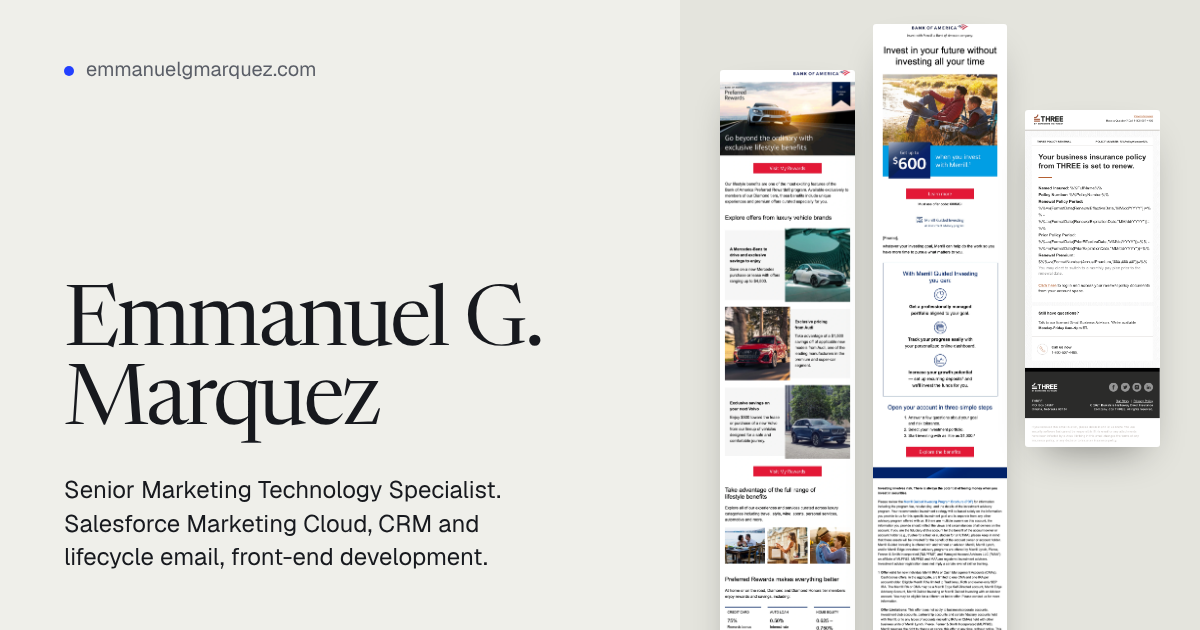
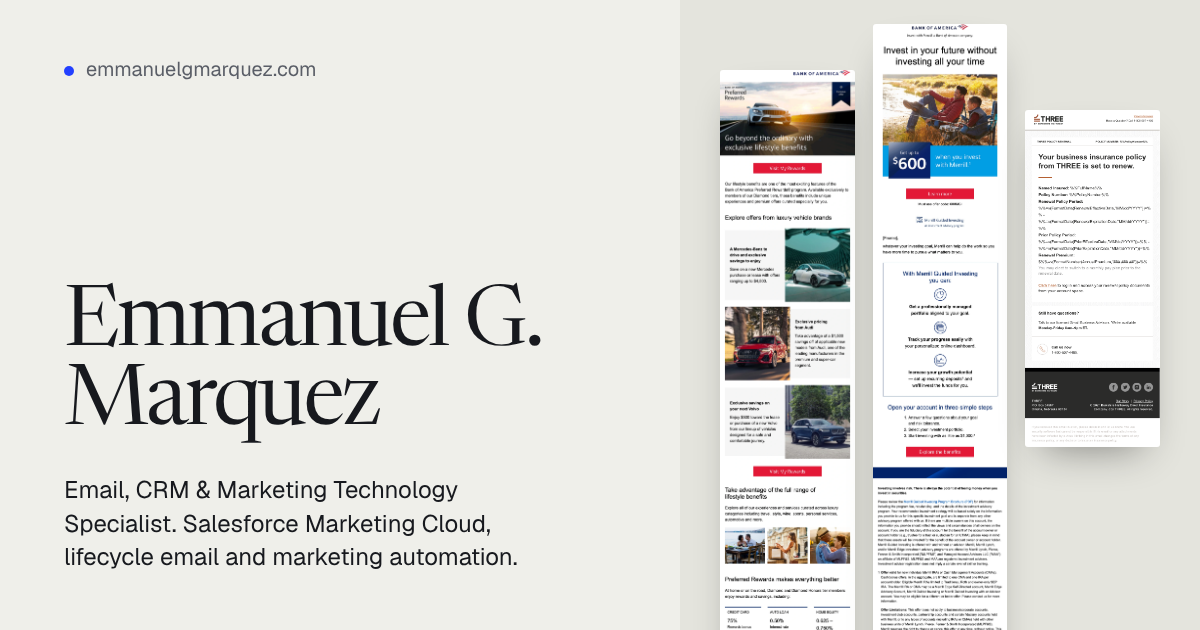
Retitle the site: Email, CRM & Marketing Technology Specialist
Updates the browser title, search and social titles, structured-data job
title and the homepage sharing image.

Claude-Session: https://claude.ai/code/session_01CoJ6EQ7GkvrbKK26VKxf5i

Changed region(s): [[0.0617, 0.754, 0.4317, 0.8444], [0.185, 0.8746, 0.4317, 0.9048]]

diff --git a/src/lib/site.ts b/src/lib/site.ts
@@ -2,9 +2,9 @@ export const site = {
   name: "Emmanuel G. Marquez",
   shortName: "Emmanuel Marquez",
   wordmark: "Emmanuel Marquez",
-  title: "Senior Marketing Technology Specialist",
+  title: "Email, CRM & Marketing Technology Specialist",
   positioning:
-    "Senior Marketing Technology Specialist | Salesforce Marketing Cloud | CRM & Lifecycle Marketing | Front-End Development",
+    "Email Development | Salesforce Marketing Cloud | CRM | Marketing Automation | Digital Experiences",
   description:
     "Emmanuel G. Marquez is a marketing technology specialist in Utah who builds enterprise email, Salesforce Marketing Cloud automation and lifecycle programs for brands in financial services, insurance and healthcare.",
   url: "https://emmanuelgmarquez.com",

diff --git a/README.md b/README.md
@@ -1,6 +1,6 @@
 # Emmanuel G. Marquez: portfolio
 
-The portfolio site for Emmanuel G. Marquez, Senior Marketing Technology Specialist (Salesforce Marketing Cloud, CRM & lifecycle marketing, front-end development).
+The portfolio site for Emmanuel G. Marquez, Email, CRM & Marketing Technology Specialist (email development, Salesforce Marketing Cloud, CRM, marketing automation).
 
 - Homepage: hero with a wall of real project emails, selected work, expertise, experience, about and contact
 - Recognition: FCS Portfolio Awards (Gold, Silver, Bronze) for Bank of America email, with links to the official winners lists
